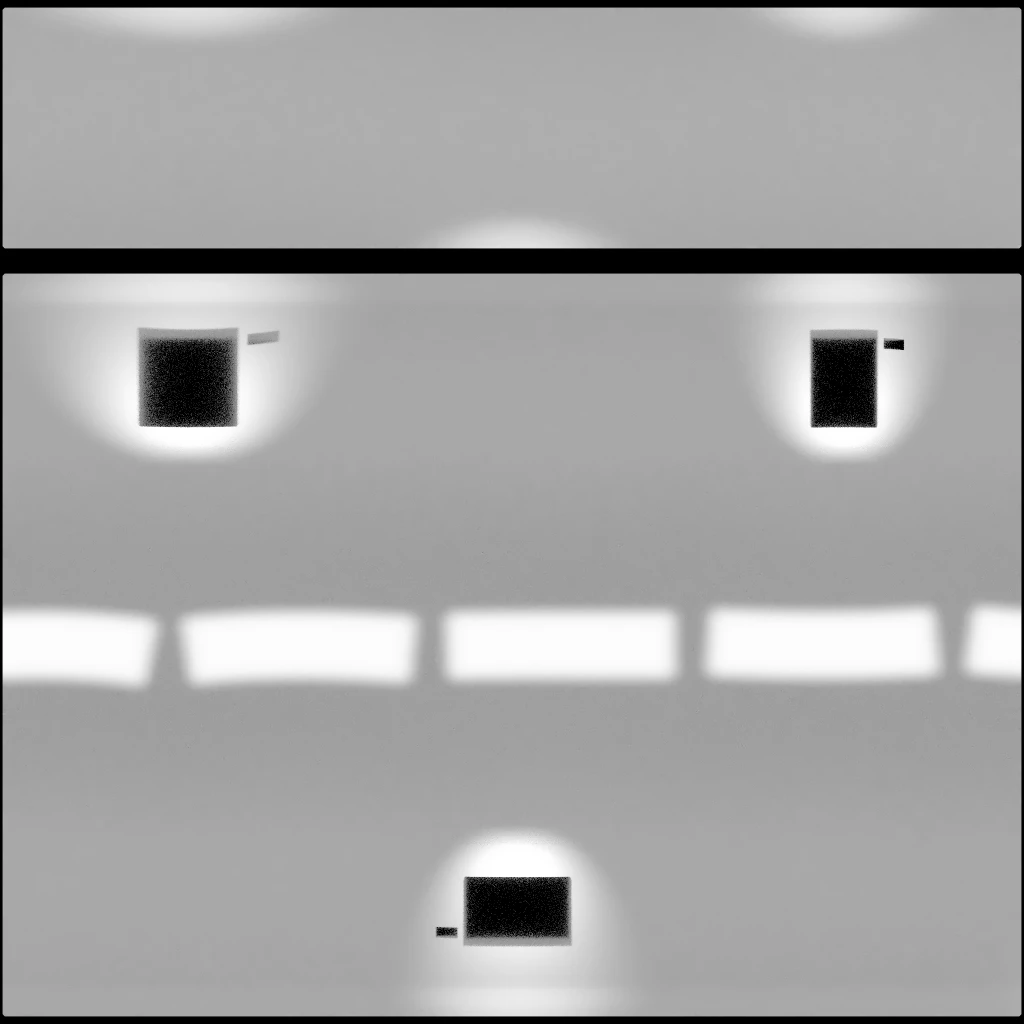
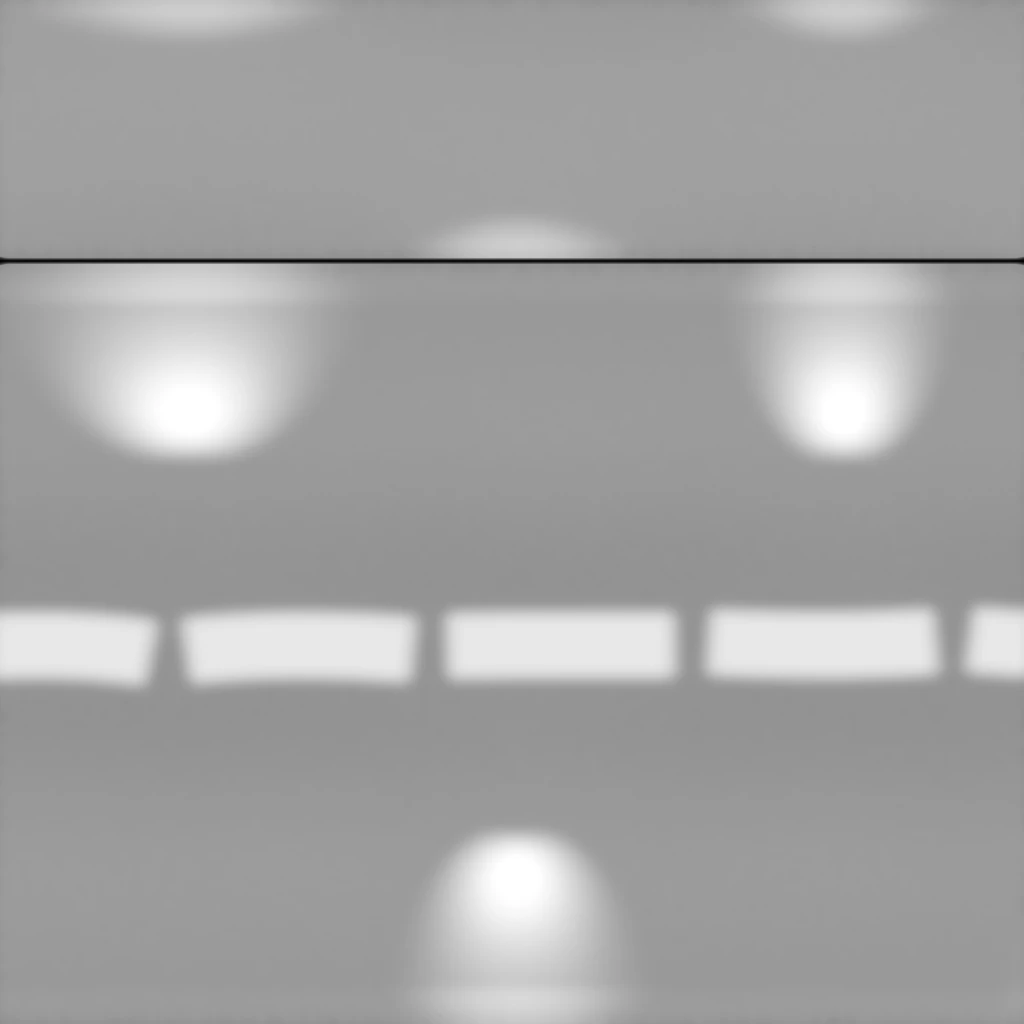
zsart: pure white gallery – occluder-free Blender rebake, smooth lightmaps, code-drawn soft frame shadows
Claude-Session: https://claude.ai/code/session_01VdjVJekSgJN5NPM9qWpNCb

diff --git a/src/components/galeria/scene.ts b/src/components/galeria/scene.ts
@@ -115,6 +115,24 @@ function frameGeometry(w: number, h: number) {
   const g = new ExtrudeGeometry(s, { depth: 0.052, bevelEnabled: true, bevelThickness: b, bevelSize: b, bevelSegments: 4, curveSegments: 1 });
   g.translate(0, 0, 0.004); return g;
 }
+/**
+ * Soft cast shadow of a hanging frame, drawn at 140 px per metre so it stays crisp at any screen size:
+ * a wide penumbra that falls slightly downwards (the spot is above) plus a tight, darker contact line.
+ */
+const SH_PAD = 0.55, SH_PX = 200;
+function frameShadow(w: number, h: number) {
+  const fw = w + 0.09, fh = h + 0.09, W = Math.round((fw + SH_PAD * 2) * SH_PX), H = Math.round((fh + SH_PAD * 2) * SH_PX);
+  const c = document.createElement("canvas"); c.width = W; c.height = H; const g = c.getContext("2d")!;
+  const rect = (dx: number, dy: number, grow: number, blur: number, a: number) => {
+    g.filter = `blur(${blur}px)`; g.fillStyle = `rgba(20,16,12,${a})`;
+    const x = (SH_PAD - grow + dx) * SH_PX, y = (SH_PAD - grow + dy) * SH_PX;
+    g.beginPath(); g.roundRect(x, y, (fw + grow * 2) * SH_PX, (fh + grow * 2) * SH_PX, grow * SH_PX); g.fill();
+  };
+  rect(0, 0.07, 0.03, 0.14 * SH_PX, 0.26);   // penumbra, falls below the frame
+  rect(0, 0.018, 0.004, 0.043 * SH_PX, 0.32);  // contact shadow right under the moulding
+  g.filter = "none";
+  const t = new CanvasTexture(c); t.colorSpace = SRGBColorSpace; return t;
+}
 function shadowTexture() {
   const c = document.createElement("canvas"); c.width = c.height = 128; const g = c.getContext("2d")!;
   const gr = g.createRadialGradient(64, 64, 10, 64, 64, 64); gr.addColorStop(0, "rgba(0,0,0,.55)"); gr.addColorStop(1, "rgba(0,0,0,0)");
@@ -187,11 +205,13 @@ void main(){
   float pool = 0.0;
   for (int i = 0; i < 6; i++) { vec3 d = vW - uArts[i]; ${floor ? "d.y = 0.0;" : "d.y *= 0.7;"} pool += 0.35 * uHov[i] * exp(-dot(d, d) * 0.45); }
   vec3 dg = vW - uGlow; float glow = exp(-dot(dg, dg) * 0.11) * 0.08;
-  vec3 lin = uBase * (L + pool + glow);
-  vec3 c = pow(1.0 - exp(-lin * uExpo), vec3(1.0 / 2.2));
-  c = mix(uBase * vShade * 0.95, c, uMix);
-  c *= mix(1.0, 0.9, smoothstep(8.0, 34.0, length(vW - uCam)));
-  c += (hash(gl_FragCoord.xy + fract(uTime)) - 0.5) * 0.012;
+  // gallery white: the bake only shades the coves and corners a touch; everything at or above the white point is paper white
+  float t = (L + pool + glow) / uExpo;
+  float d = clamp(1.0 - t, 0.0, 1.0);
+  vec3 c = uBase * (1.0 - ${floor ? "0.2" : "0.16"} * d * (2.0 - d));
+  c = mix(uBase * vShade, c, uMix);
+  c *= mix(1.0, 0.975, smoothstep(10.0, 38.0, length(vW - uCam)));
+  c += (hash(gl_FragCoord.xy + fract(uTime)) - 0.5) * 0.004;
   ${floor ? "float edge = smoothstep(0.55, 1.0, abs(vS)); gl_FragColor = vec4(c, 0.86 - edge * 0.08);" : "gl_FragColor = vec4(c, 1.0);"}
 }`;
 
@@ -250,7 +270,7 @@ export function mount({ canvas, works, endLogo, baked, theme = { serif: "Gloock,
   const lmMix = { value: 0 }, lmLoader = new TextureLoader(), lmSuffix = (mobile ? "-m.webp" : ".webp") + (baked?.ver ? `?v=${baked.ver}` : "");
   const bakedMat = (floor: boolean, url: string) => {
     const m = new ShaderMaterial({
-      uniforms: { ...uniforms, uBase: floor ? floorU.uBase : uniforms.uBase, uLM: { value: null as Texture | null }, uLMax: { value: baked!.lmax }, uMix: lmMix, uExpo: { value: baked!.expo ?? 1.55 } },
+      uniforms: { ...uniforms, uBase: { value: floor ? new Vector3(0.975, 0.972, 0.965) : new Vector3(1.0, 0.998, 0.992) }, uLM: { value: null as Texture | null }, uLMax: { value: baked!.lmax }, uMix: lmMix, uExpo: { value: baked!.expo ?? 1.55 } },
       vertexShader: VERT_B, fragmentShader: BAKED_FRAG(floor), side: DoubleSide, transparent: floor, depthWrite: !floor,
     });
     lmLoader.load(url + lmSuffix, (t) => { t.colorSpace = NoColorSpace; t.anisotropy = 4; m.uniforms.uLM.value = t; m.needsUpdate = true; lmLeft--; });
@@ -284,6 +304,7 @@ export function mount({ canvas, works, endLogo, baked, theme = { serif: "Gloock,
   const artRoot = new Group(), mirror = new Group(); mirror.scale.y = -1; scene.add(artRoot, mirror);
   const pmrem = new PMREMGenerator(renderer), envTex = baked ? pmrem.fromScene(new RoomEnvironment(), 0.04).texture : null;
   const frameMat = baked ? new MeshStandardMaterial({ color: 0x1b1916, roughness: 0.36, metalness: 0.2, envMap: envTex, envMapIntensity: 0.6 }) : null;
+  const plaqueShadow = baked ? frameShadow(0.27, 0.09) : null;
   const shadowT = shadowTexture(), maxAniso = renderer.capabilities.getMaxAnisotropy();
   const bmp = typeof createImageBitmap === "function" ? new ImageBitmapLoader().setOptions({ imageOrientation: "flipY", premultiplyAlpha: "none" }) : null;
   const plain = new TextureLoader();
@@ -302,7 +323,14 @@ export function mount({ canvas, works, endLogo, baked, theme = { serif: "Gloock,
     const normal = L.clone().multiplyScalar(-side);
     const g = new Group(); g.position.copy(base); g.lookAt(base.clone().add(normal));
     const sh = new Mesh(new PlaneGeometry(w.w + 0.7, w.h + 0.7), new MeshBasicMaterial({ map: shadowT, transparent: true, opacity: 0.28, depthWrite: false, color: 0x000000 }));
-    sh.position.set(0.04, -0.09, 0.004); if (!baked) g.add(sh); // with baked light the real contact shadow is already on the wall
+    sh.position.set(0.04, -0.09, 0.004);
+    if (!baked) g.add(sh);
+    else {
+      const cs = new Mesh(new PlaneGeometry(w.w + 0.09 + SH_PAD * 2, w.h + 0.09 + SH_PAD * 2), new MeshBasicMaterial({ map: frameShadow(w.w, w.h), transparent: true, depthWrite: false }));
+      cs.position.z = 0.003; cs.renderOrder = 2; g.add(cs);
+      const ps = new Mesh(new PlaneGeometry(0.36 + SH_PAD * 2, 0.18 + SH_PAD * 2), new MeshBasicMaterial({ map: plaqueShadow, transparent: true, depthWrite: false }));
+      ps.position.set(w.w / 2 + 0.34, -w.h / 2 + 0.09, 0.002); ps.renderOrder = 2; g.add(ps);
+    }
     const frame = frameMat ? new Mesh(frameGeometry(w.w, w.h), frameMat)
       : new Mesh(new BoxGeometry(w.w + 0.09, w.h + 0.09, 0.05), new MeshBasicMaterial({ color: 0x1f1c18, side: DoubleSide }));
     if (!frameMat) frame.position.z = 0.03; g.add(frame);
@@ -332,7 +360,11 @@ export function mount({ canvas, works, endLogo, baked, theme = { serif: "Gloock,
     const lm = new MeshBasicMaterial({ transparent: !endLogo.framed, opacity: 0, depthWrite: !!endLogo.framed, side: DoubleSide });
     const lp = new Mesh(new PlaneGeometry(wL, hL), lm);
     lp.position.copy(pE).addScaledVector(tE, endLogo.framed ? -0.058 : -0.02).setY(1.75); lp.lookAt(lp.position.clone().sub(tE)); lp.renderOrder = 5;
-    if (endLogo.framed && frameMat) { const fr = new Mesh(frameGeometry(wL, hL), frameMat); fr.position.z = -0.058; lp.add(fr); }
+    if (endLogo.framed && frameMat) {
+      const fr = new Mesh(frameGeometry(wL, hL), frameMat); fr.position.z = -0.058; lp.add(fr);
+      const cs = new Mesh(new PlaneGeometry(wL + 0.09 + SH_PAD * 2, hL + 0.09 + SH_PAD * 2), new MeshBasicMaterial({ map: frameShadow(wL, hL), transparent: true, depthWrite: false }));
+      cs.position.z = -0.055; cs.renderOrder = 2; lp.add(cs);
+    }
     scene.add(lp); const lr = lp.clone(); mirror.add(lr);
     plain.load(endLogo.src, (t) => { t.colorSpace = SRGBColorSpace; t.anisotropy = maxAniso; lm.map = t; lm.opacity = endLogo.framed ? 1 : 0.92; lm.needsUpdate = true; });
   }

diff --git a/src/components/zsart/data.ts b/src/components/zsart/data.ts
@@ -33,6 +33,6 @@ export const ZSART: GalleryConfig = {
   title: ["Zsoze", "festményei"], sub: "Huszonegy festmény egy folyosón. Görgess, és sétálj végig. Ha egy kép megállít, kattints rá.",
   noCart: true,
   endLogo: { src: "/zsart/end-photo.webp", aspect: 1280 / 1921, w: 1.45, wMobile: 1.2, framed: true },
-  baked: { base: "/zsart/lm", segs: 8, lmax: 2.09, expo: 1.38, ver: 2 },
+  baked: { base: "/zsart/lm", segs: 8, lmax: 2.5351, expo: 0.62, ver: 3 },
   theme: { serif: 'Birthstone, cursive', titlePx: 78, sans: '"Onest Variable", sans-serif', accent: "#b3122a" },
 };
